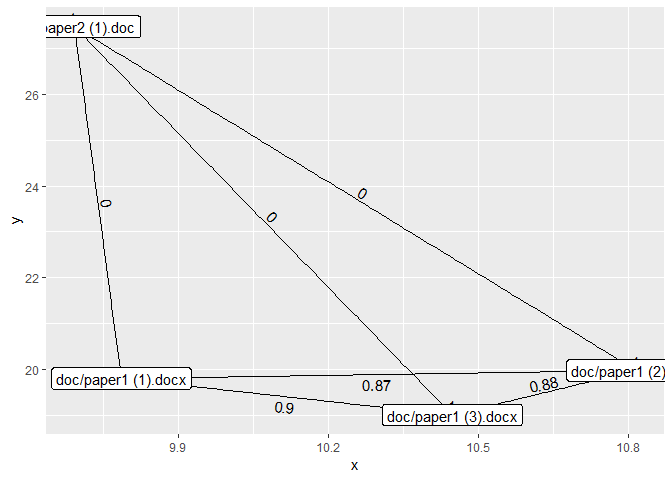
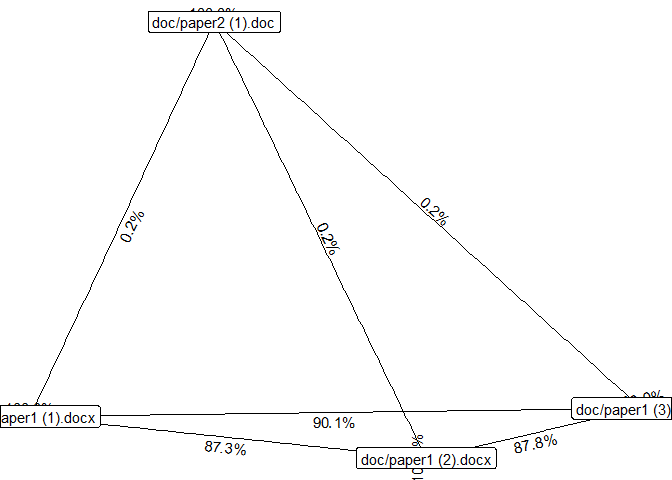
minor tweaking to README

diff --git a/README.md b/README.md
@@ -4,7 +4,7 @@ cheatR: Catch 'em baddies <img src="doc\cheatRball.png" align="right" height="34
 ================================================================================================
 
 This is a mini package to help you find cheaters by comparing hand-ins!
-([Read more](https://mattansb.blogspot.com/2018/07/cheatr-r-package-for-catching-cheaters.html) about circumstances that brought about the development of this package.)
+([Read more](https://mattansb.blogspot.com/2018/07/cheatr-r-package-for-catching-cheaters.html) about the circumstances that brought about the development of this package.)
 
 Download and Install
 --------------------
@@ -16,10 +16,10 @@ You can install `cheatR` from [github](https://github.com/mattansb/cheatR) with:
 devtools::install_github("mattansb/cheatR")
 ```
 
-Example use
------------
+Example usage
+-------------
 
-### In R console
+### Scripting
 
 Create a list of files:
 
@@ -81,7 +81,7 @@ results_graph <- as_tbl_graph(results$results) %>%
   filter(!is.na(weight))
 
 ggraph(results_graph) +
-  geom_edge_fan(aes(label = round(weight,2)),
+  geom_edge_fan(aes(label = scales::percent(weight)),
                  angle_calc = 'along',
                 label_dodge = unit(2.5, 'mm')) +
   geom_node_label(aes(label = name))
